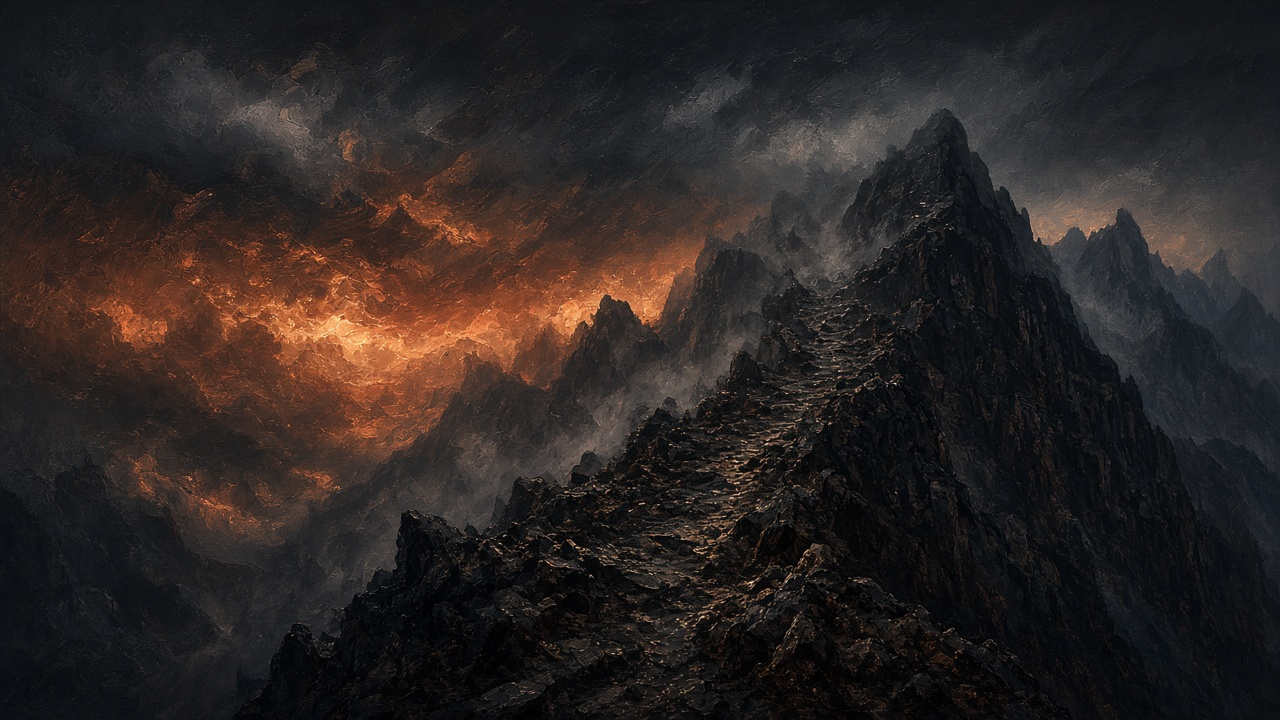
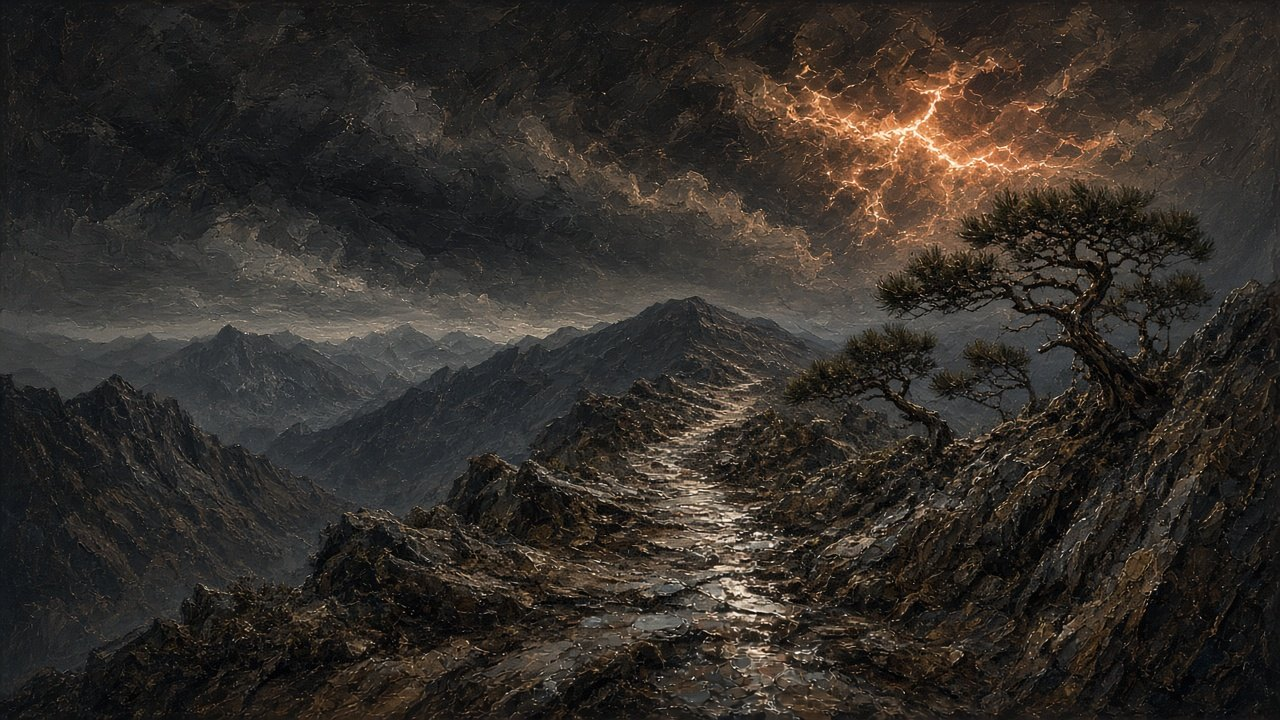
Fit The Climber and six badges on a phone, and use empty stand-in landscapes.
The timer streak stays above the tab bar, Save stays tappable, and the week and month paintings are temporary cliff and ridge scenes with no figures.

diff --git a/src/styles.css b/src/styles.css
@@ -42,6 +42,11 @@ body {
 
 button, input { font: inherit; color: inherit; }
 
+button, input, textarea, select {
+  scroll-margin-top: 12px;
+  scroll-margin-bottom: calc(var(--nav-h) + 28px);
+}
+
 button { cursor: pointer; }
 
 a { color: var(--gold-deep); }
@@ -57,7 +62,7 @@ img { max-width: 100%; }
 }
 
 .screen {
-  padding: calc(12px + env(safe-area-inset-top)) 12px calc(var(--nav-h) + 18px);
+  padding: calc(12px + env(safe-area-inset-top)) 12px calc(var(--nav-h) + 36px);
 }
 
 .relic {
@@ -85,7 +90,7 @@ img { max-width: 100%; }
 
 .relic-art {
   position: relative;
-  min-height: 148px;
+  min-height: 116px;
   display: flex;
   flex-direction: column;
   align-items: center;
@@ -101,6 +106,10 @@ img { max-width: 100%; }
   min-height: 372px;
   justify-content: space-between;
   background-position: center 30%;
+}
+
+.relic-art.has-seal.is-compact {
+  min-height: 228px;
 }
 
 .art-ridge {
@@ -896,7 +905,7 @@ legend {
   padding: 0;
   display: grid;
   grid-template-columns: 1fr 1fr;
-  gap: 10px;
+  gap: 8px;
 }
 
 .medal {
@@ -904,8 +913,8 @@ legend {
   flex-direction: column;
   align-items: center;
   text-align: center;
-  gap: 2px;
-  padding: 8px 6px 10px;
+  gap: 1px;
+  padding: 6px 6px 8px;
   border-radius: 14px;
   background: var(--cream);
   border: 1px solid #e0cfae;
@@ -924,8 +933,8 @@ legend {
 }
 
 .medal-art {
-  width: 72px;
-  height: 72px;
+  width: 64px;
+  height: 64px;
   object-fit: contain;
   display: block;
 }

diff --git a/src/ui.js b/src/ui.js
@@ -26,6 +26,7 @@ export function relicScreen({
   backLabel = 'Back',
   keepDate = false,
   artExtra = '',
+  compact = false,
   body = '',
 }) {
   const back = backHref
@@ -36,7 +37,7 @@ export function relicScreen({
     <div class="screen">
       <article class="relic">
         <div class="relic-rim">
-          <div class="relic-art art-ridge${artExtra ? ' has-seal' : ''}" style="background-image: linear-gradient(to bottom, rgba(20, 10, 6, 0.22), rgba(20, 10, 6, 0) 22%, rgba(20, 10, 6, 0.04) 68%, rgba(20, 10, 6, 0.28)), url('${esc(painting)}')">
+          <div class="relic-art art-ridge${artExtra ? ' has-seal' : ''}${compact ? ' is-compact' : ''}" style="background-image: linear-gradient(to bottom, rgba(20, 10, 6, 0.22), rgba(20, 10, 6, 0) 22%, rgba(20, 10, 6, 0.04) 68%, rgba(20, 10, 6, 0.28)), url('${esc(painting)}')">
             <div class="corner-marks" aria-hidden="true"><i></i><i></i><i></i><i></i></div>
             <header class="plate${back ? ' with-back' : ''}">
               ${back}

diff --git a/src/pages/badges.js b/src/pages/badges.js
@@ -26,7 +26,7 @@ export async function badgesHtml() {
     kicker: profile.name,
     title: 'Badges',
     body: `
-      <p class="lede">Earned from your log, including past days. First week and First month come from The Climber.</p>
+      <p class="lede">Earned from meals and from The Climber, including past days.</p>
       <p class="medal-summary">${earned} of ${result.badges.length} earned · ${result.loggedDays} ${result.loggedDays === 1 ? 'day' : 'days'} logged</p>
       <ul class="medal-grid">
         ${result.badges.map((badge) => medalCard(badge)).join('')}

diff --git a/src/pages/workout.js b/src/pages/workout.js
@@ -27,6 +27,7 @@ export async function workoutHtml() {
   return relicScreen({
     kicker: '20 minutes',
     title: 'The Climber',
+    compact: true,
     artExtra: clockSeal(snap),
     body: `
       <p class="lede">As many rounds as you can of 5 push-ups, 5 squats, and 5 pull-ups.</p>
